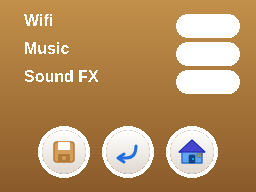
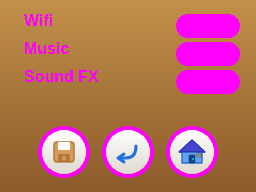
blabla

diff --git a/source/settings.c b/source/settings.c
@@ -13,7 +13,7 @@
 
 void onWifiToggle(ToggleState wifiEnabled) {
     // TODO: enable/disable wifi based on state
-    if(wifiEnabled == TOGGLE_ON) {
+    if (wifiEnabled == TOGGLE_ON) {
         // Enable wifi
     } else {
         // Disable wifi
@@ -22,7 +22,7 @@ void onWifiToggle(ToggleState wifiEnabled) {
 
 void onMusicToggle(ToggleState musicEnabled) {
     // TODO: enable/disable music based on state
-    if(musicEnabled == TOGGLE_ON) {
+    if (musicEnabled == TOGGLE_ON) {
         // Enable music
     } else {
         // Disable music
@@ -31,7 +31,7 @@ void onMusicToggle(ToggleState musicEnabled) {
 
 void onSoundFxToggle(ToggleState soundFxEnabled) {
     // TODO: enable/disable sound effects based on state
-    if(soundFxEnabled == TOGGLE_ON) {
+    if (soundFxEnabled == TOGGLE_ON) {
         // Enable sound effects
     } else {
         // Disable sound effects
@@ -83,12 +83,41 @@ void configBG_Main_Settings(void) {
 }
 
 //=============================================================================
+// TOGGLE STATE LAYER (pills - bitmap mode)
+//=============================================================================
+
+// Pill pixel coordinates with ~2px margin inward
+static const int pillCoords[3][4] = {
+    // { x1, y1, x2, y2 }
+    {176, 12, 236, 36},  // wifi
+    {176, 44, 236, 63},  // music
+    {176, 73, 236, 92},  // soundfx
+};
+
+static void drawRectBitmap(u16* fb, int x1, int y1, int x2, int y2, u16 color) {
+    for (int y = y1; y < y2; y++) {
+        for (int x = x1; x < x2; x++) {
+            fb[y * 256 + x] = color;
+        }
+    }
+}
+
+void Settings_setToggleVisual(SettingsButtonSelected btn, ToggleState state) {
+    if (btn < SETTINGS_BTN_WIFI || btn > SETTINGS_BTN_SOUND_FX)
+        return;
+    u16* fb = (u16*)BG_BMP_RAM_SUB(2);
+    u16 color = (state == TOGGLE_ON) ? GREEN : RED;
+    drawRectBitmap(fb, pillCoords[btn][0], pillCoords[btn][1], pillCoords[btn][2],
+                   pillCoords[btn][3], color);
+}
+
+//=============================================================================
 // SUB ENGINE (Bottom Screen)
 //=============================================================================
 // todo: tiles to show slection
 // todo: tiles to show if option is enabled/disabled for music/soundfx/wifi
 void configGraphics_Sub_SETTINGS(void) {
-    REG_DISPCNT_SUB = MODE_0_2D | DISPLAY_BG0_ACTIVE | DISPLAY_BG1_ACTIVE;
+    REG_DISPCNT_SUB = MODE_5_2D | DISPLAY_BG0_ACTIVE | DISPLAY_BG2_ACTIVE;
     VRAM_C_CR = VRAM_ENABLE | VRAM_C_SUB_BG;
 }
 
@@ -101,12 +130,27 @@ void configBackground_Sub_SETTINGS(void) {
     dmaCopy(nds_settingsMap, BG_MAP_RAM_SUB(0), nds_settingsMapLen);
 
     // todo: highlight layer (behind)
+
+    // BG2: 16bpp bitmap for toggle colors (behind)
+    BGCTRL_SUB[2] = BG_BMP_BASE(2) | BgSize_B16_256x256 | BG_PRIORITY(1);
+    // Clear bitmap to black
+    
+
+    // Affine identity
+    REG_BG2PA_SUB = 256;
+    REG_BG2PB_SUB = 0;
+    REG_BG2PC_SUB = 0;
+    REG_BG2PD_SUB = 256;
+
+    // Draw initial toggle states
+    Settings_setToggleVisual(SETTINGS_BTN_WIFI, wifiEnabled);
+    Settings_setToggleVisual(SETTINGS_BTN_MUSIC, musicEnabled);
+    Settings_setToggleVisual(SETTINGS_BTN_SOUND_FX, soundFxEnabled);
 }
 
 //=============================================================================
 // INPUT HANDLING
 //=============================================================================
-
 
 void handleDPadInputSettings(void) {
     int keys = keysDown();
@@ -124,7 +168,7 @@ void handleTouchInputSettings(void) {
     touchRead(&touch);
 
     if (touch.px < 0 || touch.px > 256 || touch.py < 0 || touch.py > 192) {
-        return;//sanity check
+        return;  // sanity check
     }
     // wifi text
     if (touch.px > 24 && touch.px < 53 && touch.py > 10 && touch.py < 28) {
@@ -171,7 +215,6 @@ void handleTouchInputSettings(void) {
         selected = SETTINGS_BTN_HOME;
         return;
     }
-
 }
 
 //=============================================================================
@@ -201,14 +244,17 @@ GameState Settings_update(void) {
         switch (selected) {
             case SETTINGS_BTN_WIFI:
                 wifiEnabled = !wifiEnabled;
+                Settings_setToggleVisual(SETTINGS_BTN_WIFI, wifiEnabled);
                 onWifiToggle(wifiEnabled);
                 break;
             case SETTINGS_BTN_MUSIC:
                 musicEnabled = !musicEnabled;
+                Settings_setToggleVisual(SETTINGS_BTN_MUSIC, musicEnabled);
                 onMusicToggle(musicEnabled);
                 break;
             case SETTINGS_BTN_SOUND_FX:
                 soundFxEnabled = !soundFxEnabled;
+                Settings_setToggleVisual(SETTINGS_BTN_SOUND_FX, soundFxEnabled);
                 onSoundFxToggle(soundFxEnabled);
                 break;
             case SETTINGS_BTN_SAVE:
